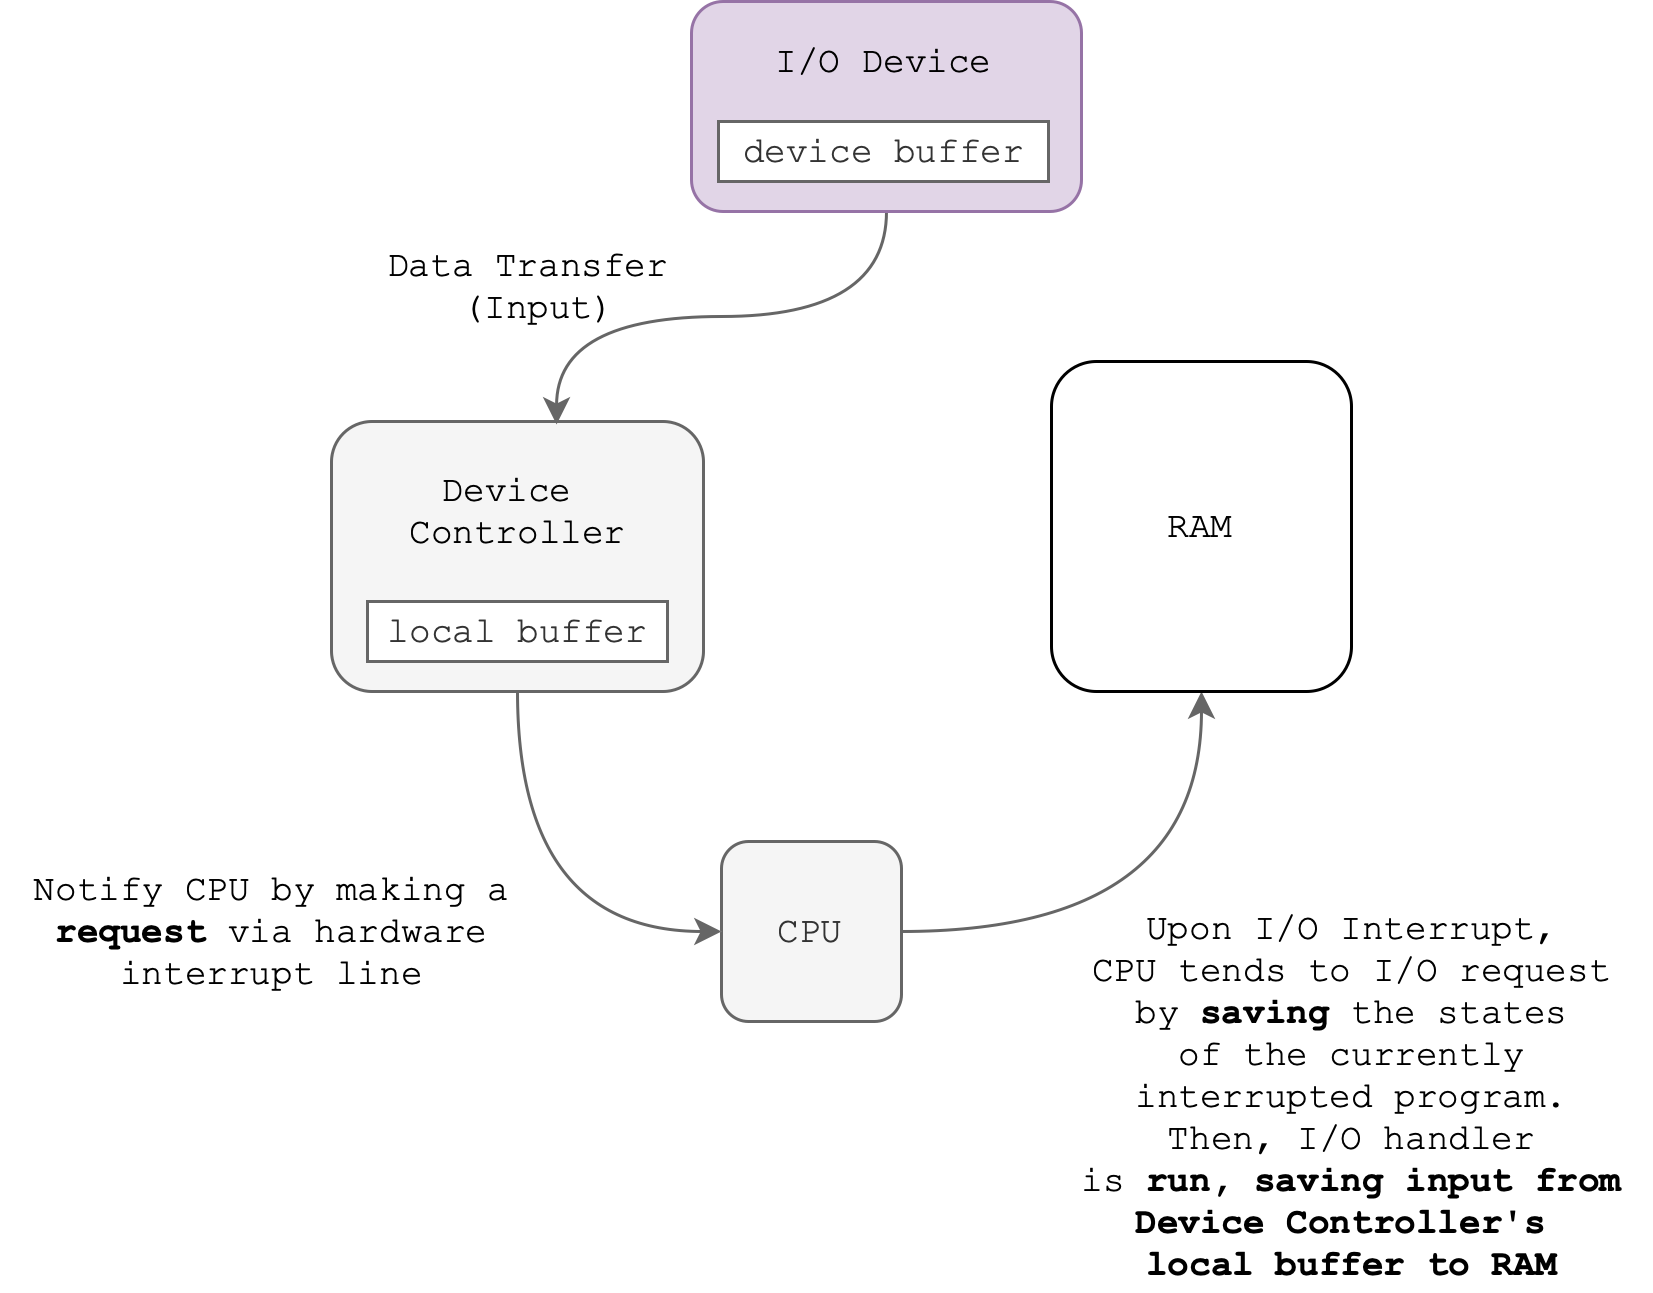
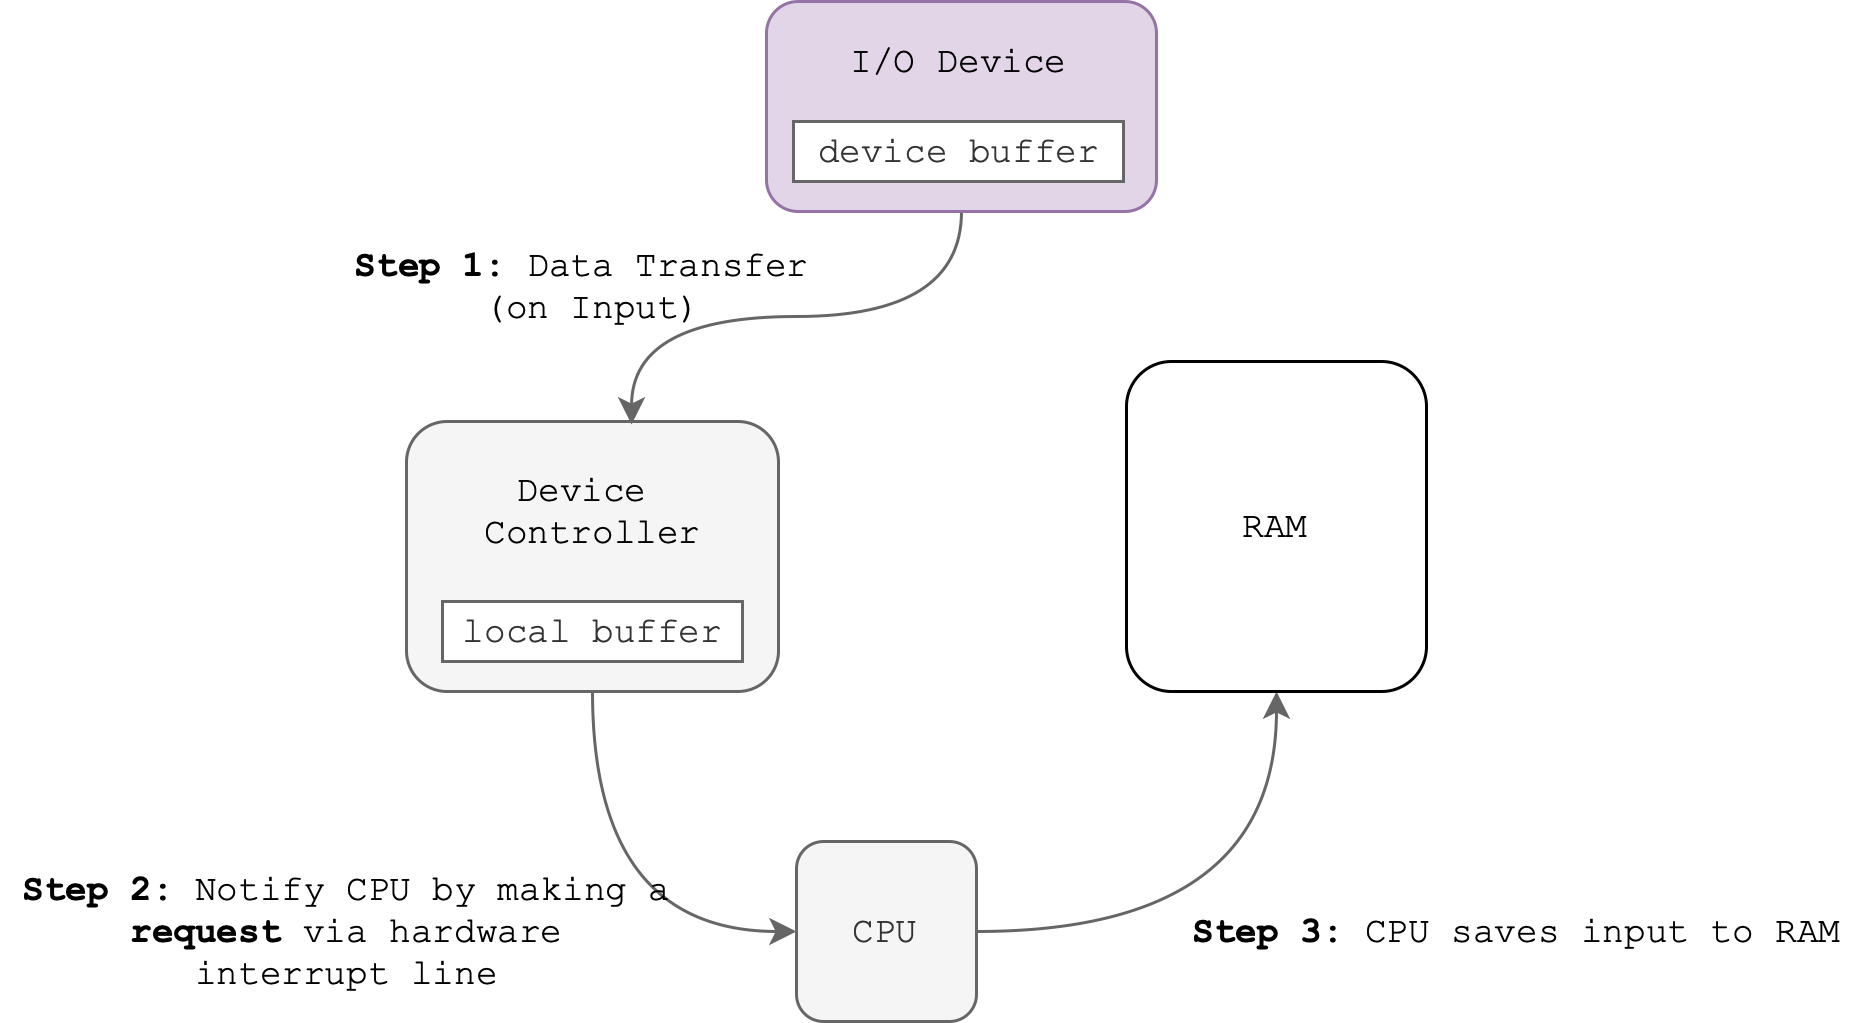
feat: week 1 figures update and headers update

diff --git a/_os_notes/week1_resource.md b/_os_notes/week1_resource.md
@@ -13,15 +13,15 @@ show_edit_on_github: false
 show_date: false
 ---
 
-The kernel <span style="color:#f77729;"><b>controls</b></span> and <span style="color:#f77729;"><b>coordinates</b></span> the use of hardware and I/O devices (as seen in [the section](#computer-system-i-o-operation) above) among various user applications. Examples of I/O devices include mouse, keyboard, graphics card, disk, network cards, among many others. 
+The kernel <span style="color:#f77729;"><b>controls</b></span> and <span style="color:#f77729;"><b>coordinates</b></span> the use of hardware and I/O devices among various user applications. Examples of I/O devices include mouse, keyboard, graphics card, disk, network cards, among many others. 
 
 
-## Interrupt-Driven I/O Operations
-This section explains how interrupt-driven I/O operations work in a nutshell. There are <span style="color:#f7007f;"><b>two kinds of interrupts</b></span>:
+# Interrupt-Driven I/O Operations
+Interrupt-Driven I/O operations allow the CPU to efficiently handle interrupts without having to waste resources; waiting for asynchronous interrupts. This notes explains how interrupt-driven I/O operations work in a nutshell. There are <span style="color:#f7007f;"><b>two kinds of interrupts</b></span>:
 1. <span style="color:#f7007f;"><b>Hardware Interrupt</b></span>: input from external devices activates the interrupt-request-line, thus pausing the current execution of user programs. 
 2. <span style="color:#f7007f;"><b>Software Interrupt</b></span>: a software generated interrupt that is invoked from the instruction itself because the current execution of user program needs to access Kernel services.
 
-## Hardware Interrupt
+# Hardware Interrupt
 
 The CPU has an <span style="color:#f77729;"><b>interrupt-request line</b></span> that is sensed by its control unit before each instruction execution. 
 - Upon the presence of new **input**: from <span style="color:#f77729;"><b>external</b></span> events such as keyboard press, mouse click, mouse movement, incoming fax, or **completion of previous I/O requests** made by the drivers on <span style="color:#f77729;"><b>behalf</b></span> of user processes, the device controllers will invoke an **interrupt** request by setting the **bit** on this <span style="color:#f77729;"><b>interrupt-request line</b></span>. 
@@ -33,14 +33,14 @@ This forces the CPU to **transfer** control to the **interrupt handler**. This s
 1. **<span style="color:#f7007f;"><b>Save</b></span> the register states** first (the interrupted program instruction) into the process table 
 2. And then transferring control to the appropriate interrupt service routine — depending on the device controller that made the request. 
 
-#### Vectored Interrupt System
+## Vectored Interrupt System
 
 Interrupt-driven system may use a <span style="color:#f77729;"><b>vectored interrupt system</b></span>: the interrupt signal that **INCLUDES** the identity of the device sending the interrupt signal, hence allowing the kernel to know exactly which interrupt service routine to execute[^2]. This is more <span style="color:#f7007f;"><b>complex</b></span> to implement, but more <span style="color:#f77729;"><b>useful</b></span> when there are sparse I/O requests.
 
 In simpler words, this interrupt mechanism accepts an **address**, which is usually one of a small set of numbers for an offset into a table called the **interrupt vector.** This table holds the addresses of routines prepared to process specific interrupts.
 {:.info}
 
-#### Polled Interrupt System
+## Polled Interrupt System
 An alternative is to use a <span style="color:#f77729;"><b>polled intterupt system</b></span>: 
 * The interrupted program enters a general interrupt polling routine <span style="color:#f7007f;"><b>protocol</b></span>, where CPU <span style="color:#f7007f;"><b>scans</b></span> (polls) devices to determine which device made a service request. 
 * Unlike vectored interrupt, there’s no such _interrupt_ signal that includes the identity of the device sending the interrupt signal. 
@@ -50,17 +50,17 @@ This is simpler to implement, but more time-wasting if there’s sparse I/O requ
 Does Linux implement a Polled interrupt or Vectored interrupt system? See [here](https://linux-kernel-labs.github.io/refs/heads/master/lectures/interrupts.html) for clues.
 {:.info}
 
-### Multiple Interrupts
+## Multiple Interrupts
 1. If there’s more than one  I/O interrupt requests from multiple devices, the Kernel may decide which interrupt requests to service first. 
 2. When the service is done, the Kernel scheduler may choose to resume the user program that was interrupted.
 
-### Raw Device Polling 
+## Raw Device Polling 
 It takes time to perform a **<span style="color:#f7007f;"><b>context switch</b></span>** to handle interrupt requests. In some specifically dedicated servers, raw polling may be faster. The CPU <span style="color:#f7007f;"><b>periodically</b></span> checks each device for requests. If there's no request, then it will return to resume the user programs. Obviously, this method is <span style="color:#f77729;"><b>not suitable</b></span> in the case of sporadic I/O usage, or in general-purpose CPUs since at least a fixed bulk of the CPU load will always be dedicated to perform routine polling. For instance, there's no need to poll for anything periodically when a user is watching a video. 
 
 Modern computer systems are **<span style="color:#f7007f;"><b>interrupt-driven</b></span>**, meaning that it <span style="color:#f7007f;"><b>does not wait</b></span> until the input from the requested external device is ready. This way, the computer may <span style="color:#f77729;"><b>efficiently</b></span> fetch I/O data **only when the devices are `ready`{:.error},** and will not waste CPU cycles to "poll" whether there are any I/O requests or not. 
 
 
-### Hardware Interrupt Timeline
+## Hardware Interrupt Timeline
 The figure below summarises the **interrupt-driven** procedure of **asynchronous I/O handling** during **<span style="color:#f7007f;"><b>hardware interrupt</b></span>**:
 
 <img src="/50005/assets/images/week1/9.png"  class="center_seventy"/>
@@ -70,10 +70,10 @@ Notes:
 2. Device Controller: Attached to motherboard. Runs asynchronously, may run simple instructions. Has its own buffers, registers, and simple instruction interpreter. Usually transfer data to and fro the I/O device via standard protocols such as USB A/C, HDMI, DP, etc. 
 3. Disk Controller: Same as device controller, just that it's specific to control Disks
 
-#### Receiving asynchronous Input
+### Receiving asynchronous Input
 From the figure above, you may assume that at first the CPU is busy executing user process instructions. At the same time, the device is *idling*.  
 
-Upon the presence of external events, **e.g: mouse `CLICK()`, the device <strong>records</strong> the input.  
+Upon the presence of external events, e.g: mouse `CLICK()`, the device <strong>records</strong> the input.  
 * This triggers <span style="color:#f7007f;"><b>step 1</b></span>: The I/O device  sends data to the device controller, and <strong>transfers </strong>the data from the<strong> device buffer </strong>to the<strong> local buffer of the device controller.</strong>
 
 When I/O transfer is complete, this triggers <span style="color:#f7007f;"><b>step 2</b></span>: the device controller makes an <strong>interrupt request</strong> to signal that a <em>transfer is done (and data needs to be fetched)</em>. 
@@ -88,7 +88,7 @@ After the I/O request is serviced, the handler:
 1. <span style="color:#f77729;"><b>Clears</b></span> the interrupt request line, 
 2. <span style="color:#f77729;"><b>Performs</b></span> a state restore, and executes a **_return from interrupt_** instruction (or `JMP(XP)` as you know it from 50.002). 
 
-#### Consuming the Input
+### Consuming the Input
 
 Two things may happen from here after we have stored the new input to the RAM: 
 1. If there’s no application that’s currently waiting for this input, then it might be temporarily stored somewhere in kernel space first.
@@ -103,7 +103,7 @@ Two things may happen from here after we have stored the new input to the RAM:
 
 
 
-## Software Interrupt (Trap) via System Call
+# Software Interrupt (Trap) via System Call
 
 Firstly, this image says it all.
 
@@ -158,7 +158,7 @@ Note:
 1. SVC <span style="color:#f77729;"><b>delay</b></span> and IRQ <span style="color:#f77729;"><b>delay</b></span>: time elapsed between when the request is invoked until when the request is first executed by the CPU. 
 2. Before the user program is resumed, its state must be <span style="color:#f77729;"><b>restored</b></span>. Saving of state during the switch between User to Kernel mode is implied although it is notn drawn.
 
-## Reentrancy 
+# Reentrancy 
 
 A reentrant kernel is the one which allows <span style="color:#f7007f;"><b>multiple</b></span> processes to be executing in the kernel mode at any given point of time, hopefully without causing any consistency problems among the kernel data structures. If the kernel is not re-entrant, a process can only be suspended <span style="color:#f77729;"><b>while it is in user mode</b></span>.
 * In a non-reentrant kernel: although it could be suspended in kernel mode, that would still <span style="color:#f77729;"><b>block</b></span> kernel mode execution on <span style="color:#f77729;"><b>all other processes</b></span>.  
@@ -168,7 +168,7 @@ A reentrant kernel is the one which allows <span style="color:#f7007f;"><b>multi
 
 In simple Operating Systems, incoming hardware interrupts are typically <span style="color:#f7007f;"><b>disabled</b></span> while another interrupt (of same or higher priority) is being processed to prevent a lost interrupt i.e: when user states are currently being saved before the actual interrupt service routine began or various **<span style="color:#f7007f;"><b>reentrancy problems</b></span>**[^4]. 
 
-## Preemption
+# Preemption
 A pre-emptive Kernel <span style="color:#f77729;"><b>allows the scheduler</b></span> to <span style="color:#f7007f;"><b>interrupt</b></span> processes in Kernel mode to execute the highest priority task that are ready to run, thus enabling kernel functions to be <span style="color:#f7007f;"><b>interrupted</b></span> just like regular user functions. The CPU will be assigned to perform other tasks, from which it later returns to finish its kernel tasks. In other words, the scheduler is permitted to <span style="color:#f7007f;"><b>forcibly</b></span> perform a context switch.
 
 Likewise, in a non-preemptive kernel the scheduler is not capable of rescheduling a task while its CPU is executing in the kernel mode.
@@ -185,7 +185,7 @@ Fun fact: Linux Kernel is reentrant and preemptive.
 
 
 
-## Timed Interrupts {#timed-interrupts}
+# Timed Interrupts {#timed-interrupts}
 
 We must ensure that the kernel, as a <span style="color:#f7007f;"><b>resource allocator</b></span> maintains <span style="color:#f77729;"><b>control</b></span> over the CPU. We cannot allow a user program to get stuck in an infinite loop and never return control to the OS. We also cannot trust a user program to voluntarily return control to the OS. To ensure that no user program can occupy a CPU for indefinitely, a computer system comes with a (<span style="color:#f77729;"><b>hardware</b></span>)-based timer. A timer can be set to invoke the hardware interrupt line so that a running user program may transfer control to the kernel after a specified period. Typically, a <span style="color:#f7007f;"><b>scheduler</b></span> will be invoked each time the timer interrupt occurs. 
 
@@ -200,20 +200,18 @@ In the hardware, a timer is generally implemented by a **fixed-rate clock** and 
     * Note that a scheduler may allocate <span style="color:#f77729;"><b>arbitrary</b></span> amount of time for a process to run, e.g: a process may be allocated a longer time slot than the other. We will learn more about process management in Week 3.
 
 
-## Exceptions {#exceptions}
+# Exceptions {#exceptions}
 
-Exceptions are <span style="color:#f77729;"><b>software interrupts</b></span> that occur due to <span style="color:#f7007f;"><b>errors</b></span> in the instruction: such as division by zero, invalid memory accesses, or attempts to access kernel space illegally. This means that the CPU's hardware may be designed such that it checks for the presence of these <span style="color:#f7007f;"><b>serious</b></span> errors, and immediately invokes the appropriate handler via a pre-built <span style="color:#f7007f;"><b>event-vector table</b></span>. Below is an example of intel pentium event vector table that’s typically implemented in the lower physical addresses (_screenshot taken from SGG book_).
+Exceptions are <span style="color:#f77729;"><b>software interrupts</b></span> that occur due to <span style="color:#f7007f;"><b>errors</b></span> in the instruction: such as division by zero, invalid memory accesses, or attempts to access kernel space illegally. This means that the CPU's hardware may be designed such that it checks for the presence of these <span style="color:#f7007f;"><b>serious</b></span> errors, and immediately invokes the appropriate handler via a pre-built <span style="color:#f7007f;"><b>event-vector table</b></span>. Below is an example of ARMv8-M event vector table. The table is typically implemented in the <span style="color:#f77729;"><b>lower</b></span> physical addresses in many architecture. 
 
 
-<img src="/50005/assets/images/week1/13.png"  class="center_seventy"/>
+<img src="/50005/assets/images/week1/13.png"  class="center_seventy" title="Image taken from https://developer.arm.com/documentation/100701/0200/Exception-properties"/>
+
+Each exception has an ID (associated number), a vector <span style="color:#f77729;"><b>address</b></span> that is the exception <span style="color:#f77729;"><b>entry</b></span> point in memory, and a <span style="color:#f77729;"><b>priority</b></span> level which determines the order in which multiple pending exceptions are handled. In ARMv8-M, the lower the priority number, the higher the priority level. 
 
 <span style="color:#f7007f;"><b>You don't have to memorise these, don't worry.</b></span>
 
 
-
-
-<!-- Footnotes themselves at the bottom. -->
-## Notes
 
 
 [^2]:

diff --git a/_os_notes/week1_kernel.md b/_os_notes/week1_kernel.md
@@ -140,7 +140,7 @@ The I/O operation simply means:
 1. Output: <span style="color:#f77729;"><b>Move</b></span> data from the RAM to the device controller’s buffer, or 
 2. Input: <span style="color:#f77729;"><b>From</b></span> the device controller’s buffer to the RAM. 
 
-Since the device controller and our CPU are <span style="color:#f7007f;"><b>asynchronous</b></span> (can operate independently, in parallel), we need **to devise a way **to** <span style="color:#f7007f;"><b>coordinate</b></span> between servicing I/O requests and executing other user programs. This <span style="color:#f77729;"><b>I/O handling</b></span> issue is handled by our OS Kernel (read along to understand *how*).
+Since the device controller and our CPU are <span style="color:#f7007f;"><b>asynchronous</b></span> (can operate independently, in parallel), we need to devise a way to <span style="color:#f7007f;"><b>coordinate</b></span> between servicing I/O requests and executing other user programs. This <span style="color:#f77729;"><b>I/O handling</b></span> issue is handled by our OS Kernel (read along to understand *how*).
 
 
 # Roles of an Operating System Kernel {#roles-of-an-operating-system-kernel}
@@ -148,8 +148,6 @@ Since the device controller and our CPU are <span style="color:#f7007f;"><b>asyn
 There are several purposes of an operating system: as a <span style="color:#f77729;"><b>resource</b></span> allocator, <span style="color:#f77729;"><b>controls</b></span> program execution, and guarantees <span style="color:#f77729;"><b>security</b></span> in the computer system. The next few notes will touch on each of these topics.
 
 
-<!-- Footnotes themselves at the bottom. -->
-## Notes
 
 [^1]:
     Firmware is not equivalent to BIOS, but unfortunately some resources and PC manufacturers might just use them interchangeably. Firmware  generally refers to software stored on the motherboard (of any devices like computers, routers, switches,etc), containing basic settings of the device at startup. Some firmwares are upgradable, while some are Read-Only. BIOS is a term generally used specifically to refer to computer’s motherboard firmware in older computers. Modern computers use other Firmwares such as UEFI, also stored on chips on the motherboard. Note that UEFI / BIOS don’t form the entirety of a motherboard’s firmware.

diff --git a/_os_notes/week1_mpm.md b/_os_notes/week1_mpm.md
@@ -219,8 +219,6 @@ There are two types of clustering:
 1. <span style="color:#f77729;"><b>Asymmetric</b></span>: has one machine in hot-standby mode. There’s a master machine that runs the system, while the others are configured as slaves that receive tasks from the master. The master system does the basic input and output requests.
 2. <span style="color:#f77729;"><b>Symmetric</b></span>: multiple machines (nodes) running applications, they are monitoring one another, requires complex algorithms to maintain data integrity. 
 
-## Notes
-
 
 [^5]:
     Interrupt-driven I/O is fine for moving small amounts of data but can produce high overhead when used for bulk data movement such as disk I/O. To solve this problem, direct memory access (DMA) is used. After setting up buffers, pointers, and counters for the I/O device, the device controller transfers an entire block of data directly to or from its own buffer storage to memory, with no intervention by the CPU.
